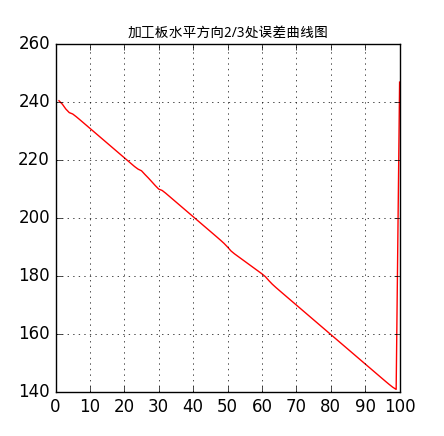
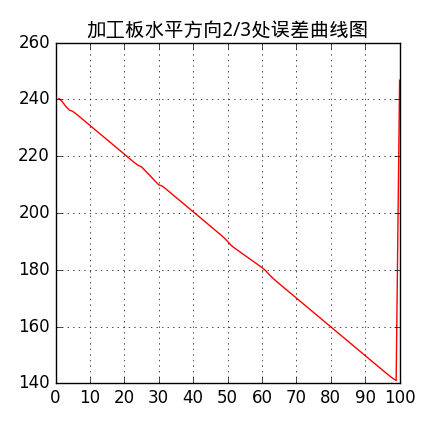
ZJ/修改部分bug

diff --git a/code/LaserQt_FourthWindow.py b/code/LaserQt_FourthWindow.py
@@ -318,7 +318,7 @@ class LaserQtFourthWindow(QWidget):
                         _x = (1/k) * (i - y_start) + x_start
                         _x_ceil = math.ceil(_x); _x_floor = math.floor(_x)
                         if _x_ceil == _x_floor:
-                            error.append(self.Z1[100 * (_x - 1) + i] - self.Z2[100 * (_x - 1) + i])
+                            error.append(self.Z1[100 * (_x_ceil - 1) + i] - self.Z2[100 * (_x_ceil - 1) + i])
                         else:
                             _error_up = self.Z1[100 * (_x_ceil - 1) + i] - self.Z2[100 * (_x_ceil - 1) + i]
                             _error_down = self.Z1[100 * (_x_floor - 1) + i] - self.Z2[100 * (_x_floor - 1) + i]
